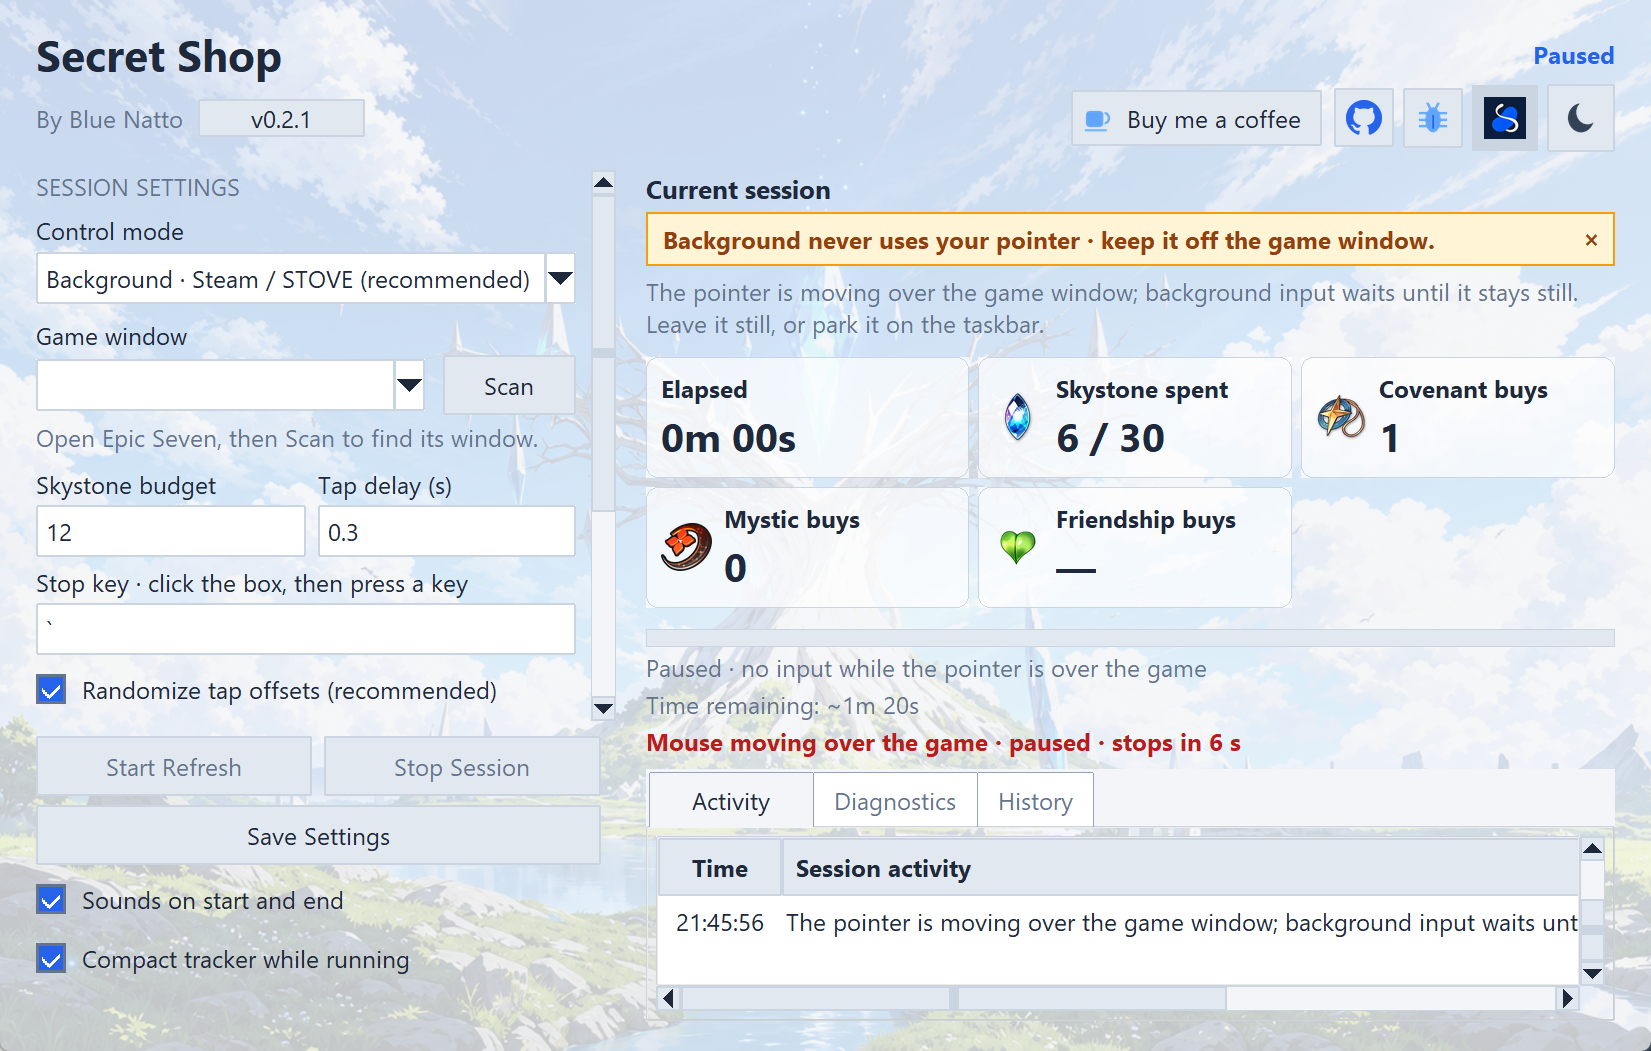
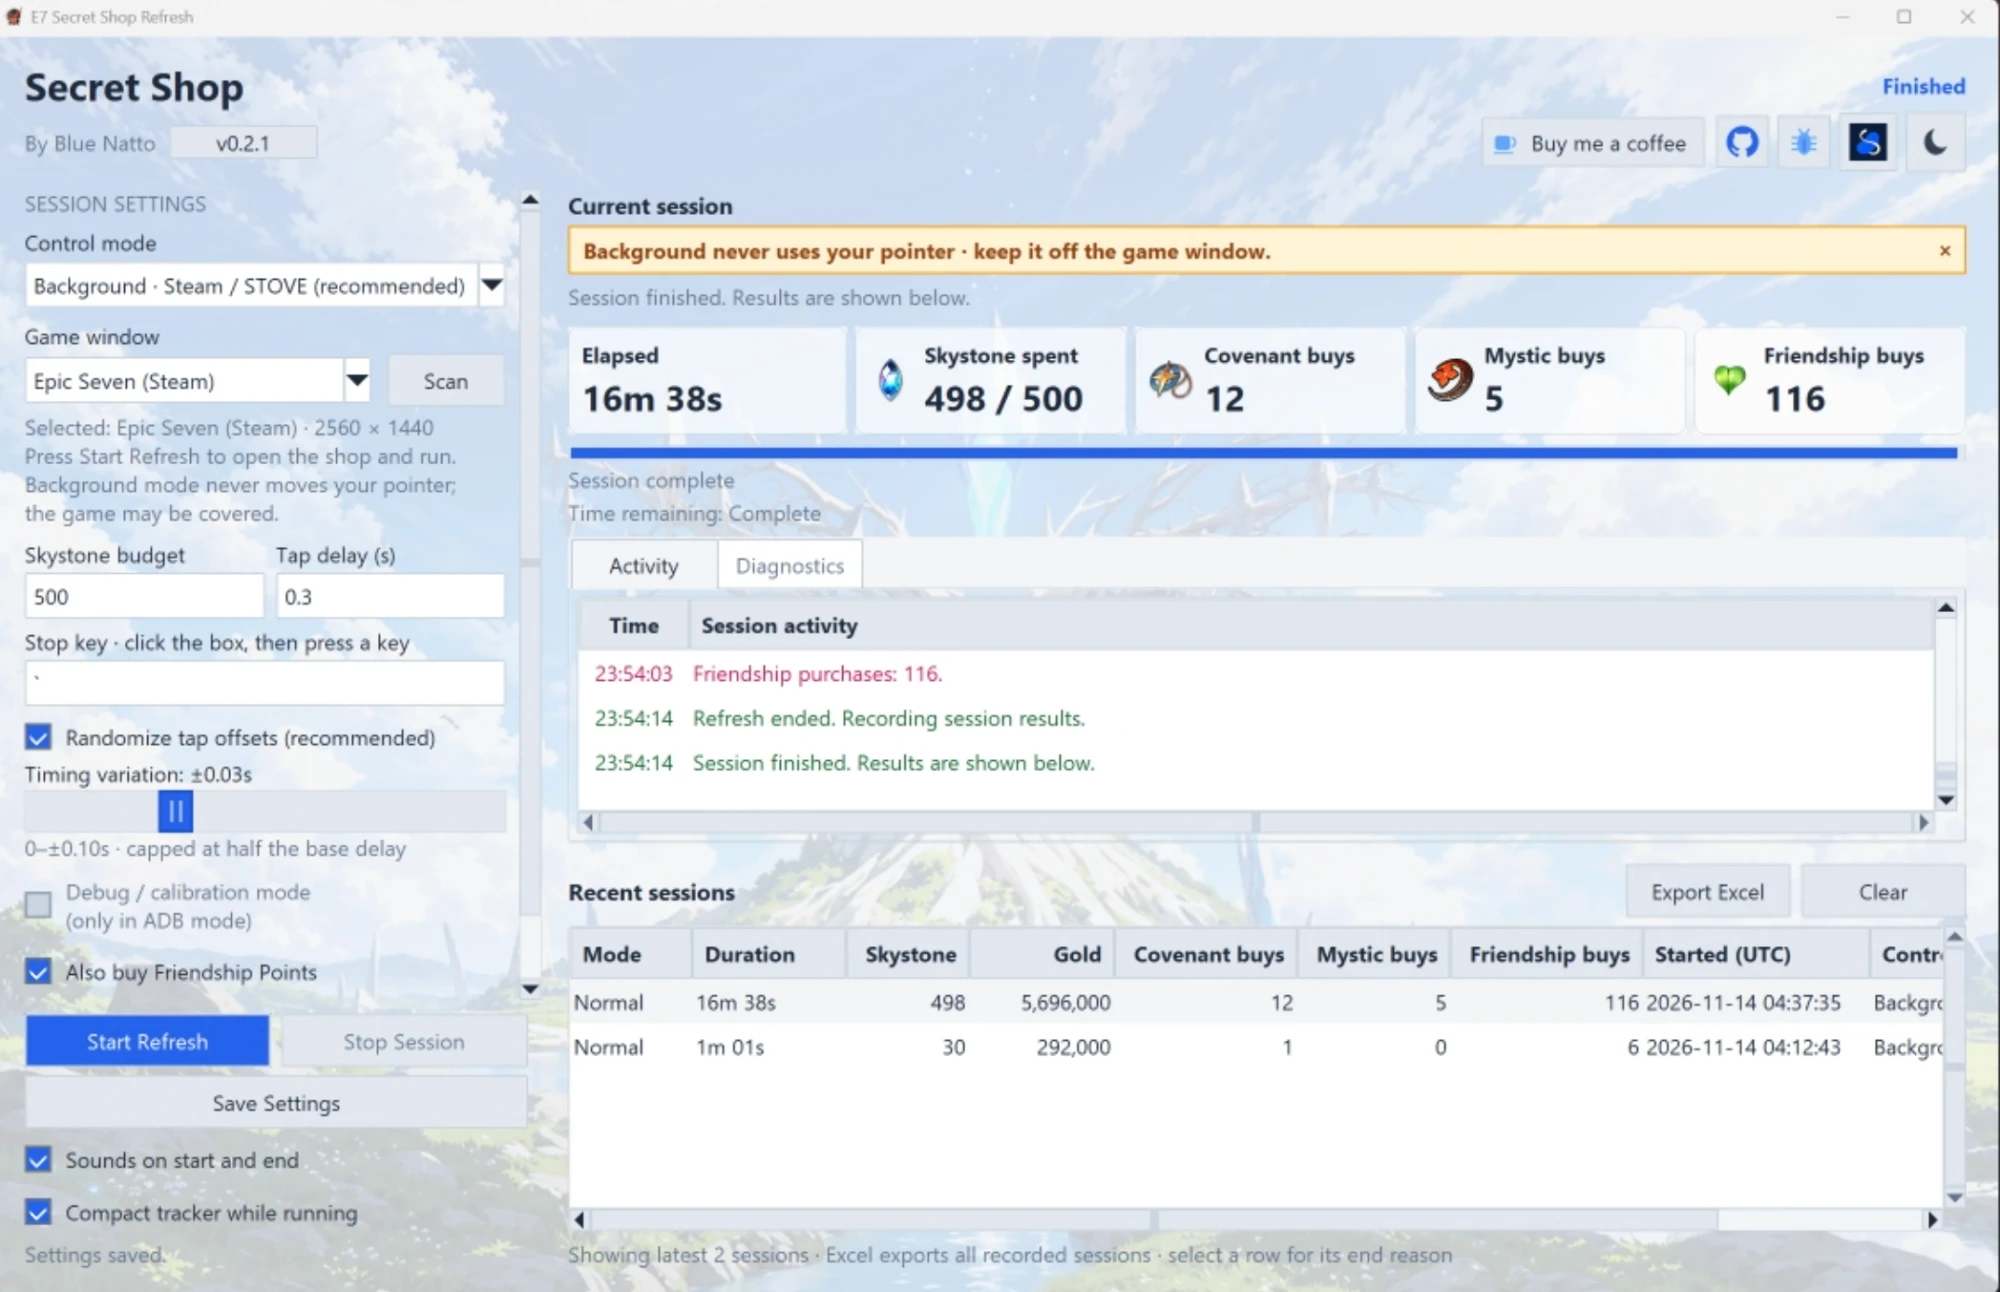
README: use a real finished-run screenshot of the main window

diff --git a/README.md b/README.md
@@ -47,10 +47,10 @@ window, or click **Stop Session**.
 
 ## What it looks like
 
-The main window, here paused because the pointer moved over the game (it resumes
-once the pointer is still, or stops after 10 seconds):
+The main window after a real 500-Skystone run on Steam: 12 Covenant, 5 Mystic and
+116 Friendship buys in about 16 minutes.
 
-<img src="docs/media/v0.2.1-full-window.png" alt="Main window in Background mode with live counters and a pause warning" width="800">
+<img src="docs/media/v0.2.1-full-window.png" alt="Main window after a finished Background run on Steam: 498 of 500 Skystones spent, 12 Covenant, 5 Mystic and 116 Friendship buys" width="800">
 
 While it runs, the app can shrink to a small always-on-top bar with purchases,
 Skystones spent, time left and a Stop button:
